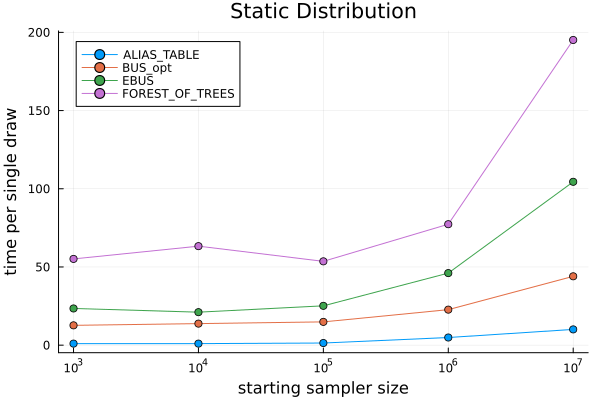
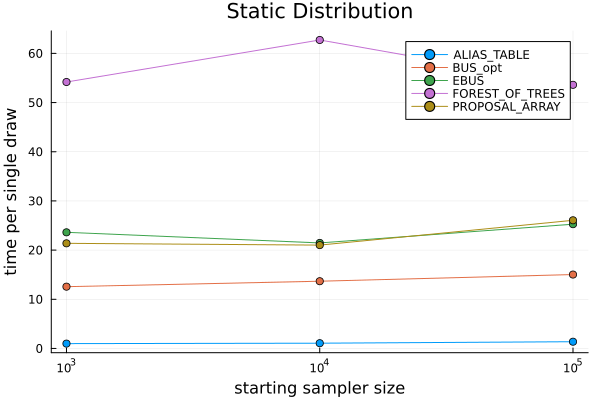
Add proposal array to figure

diff --git a/proposal_array/source/main.cpp b/proposal_array/source/main.cpp
@@ -4,7 +4,53 @@
 #include <vector>
 #include <chrono>
 #include <cmath>
+#include <fstream>
+#include <string>
 #include "DynamicProposalArrayStar.hpp"
+
+void append_column_in_place(const std::string& file_path, const std::vector<double>& vec) {
+    std::ifstream fin(file_path);
+    if (!fin.is_open()) {
+        throw std::runtime_error("Could not open input file: " + file_path);
+    }
+
+    std::vector<std::string> lines;
+    std::string line;
+
+    // Read and modify header
+    if (std::getline(fin, line)) {
+        lines.push_back(line + ",PROPOSAL_ARRAY");
+    } else {
+        throw std::runtime_error("Empty input file: " + file_path);
+    }
+
+    // Read each row and append corresponding vector value
+    size_t i = 0;
+    while (std::getline(fin, line)) {
+        if (i < vec.size()) {
+            lines.push_back(line + ',' + std::to_string(vec[i]));
+        } else {
+            lines.push_back(line + ",");
+        }
+        ++i;
+    }
+
+    fin.close();
+
+    if (i < vec.size()) {
+        std::cerr << "Warning: vector has " << (vec.size() - i) << " extra elements\n";
+    }
+
+    // Now write everything back to the same file
+    std::ofstream fout(file_path);
+    if (!fout.is_open()) {
+        throw std::runtime_error("Could not open output file: " + file_path);
+    }
+
+    for (const auto& l : lines) {
+        fout << l << '\n';
+    }
+}
 
 // Setup function for the sampler
 sampling::DynamicProposalArrayStar setup_sampler(size_t size, std::mt19937& rng) {
@@ -60,7 +106,7 @@ std::vector<size_t> benchmark_sample_dynamic_variable(sampling::DynamicProposalA
         std::uniform_int_distribution<size_t> index_dist(0, i);
         size_t index = n+index_dist(rng);
         double new_weight = std::abs(weight_dist(rng));
-        if (index > sampler.size_indices()){
+        if (index >= sampler.size_indices()){
             for (size_t j = sampler.size_indices(); j < index+1; ++j) {
                 sampler.push_zero();
             }
@@ -75,7 +121,11 @@ int main() {
     std::mt19937 rng(42);
     const int repetitions = 5;
 
-    for (int exp = 3; exp <= 7; ++exp) {
+    std::vector<double> static_times;
+    std::vector<double> dynamic_fixed_times;
+    std::vector<double> dynamic_variable_times;
+
+    for (int exp = 3; exp <= 5; ++exp) {
         size_t size = static_cast<size_t>(std::pow(10, exp));
 
         double total_static_ns = 0;
@@ -84,29 +134,29 @@ int main() {
 
         for (int rep = 1; rep <= repetitions; ++rep) {
 
-            auto sampler = setup_sampler(size, rng);
+            auto sampler1 = setup_sampler(size, rng);
 
             // Benchmark static sampling
             auto fixed_start = std::chrono::high_resolution_clock::now();
-            auto fixed_samples = benchmark_sample_static(sampler, rng, size);
+            auto fixed_samples = benchmark_sample_static(sampler1, rng, size);
             auto fixed_end = std::chrono::high_resolution_clock::now();
             std::chrono::duration<double, std::nano> fixed_time = fixed_end - fixed_start;
             total_static_ns += fixed_time.count();
 
-            auto sampler = setup_sampler(size, rng);
+            auto sampler2 = setup_sampler(size, rng);
 
             // Benchmark dynamic fixed sampling
             auto variable_start = std::chrono::high_resolution_clock::now();
-            auto variable_samples = benchmark_sample_dynamic_fixed(sampler, rng, size);
+            auto variable_samples = benchmark_sample_dynamic_fixed(sampler2, rng, size);
             auto variable_end = std::chrono::high_resolution_clock::now();
             std::chrono::duration<double, std::nano> variable_time = variable_end - variable_start;
             total_dynamic_fixed_ns += variable_time.count();
 
-            auto sampler = setup_sampler(size, rng);
+            auto sampler3 = setup_sampler(size, rng);
             
             // Benchmark dynamic variable sampling
             auto variable2_start = std::chrono::high_resolution_clock::now();
-            auto variable2_samples = benchmark_sample_dynamic_variable(sampler, rng, size);
+            auto variable2_samples = benchmark_sample_dynamic_variable(sampler3, rng, size);
             auto variable2_end = std::chrono::high_resolution_clock::now();
             std::chrono::duration<double, std::nano> variable2_time = variable2_end - variable2_start;
             total_dynamic_variable_ns += variable2_time.count();
@@ -117,12 +167,29 @@ int main() {
         double avg_dynamic_fixed_per_sample = (total_dynamic_fixed_ns / repetitions) / size;
         double avg_dynamic_variable_per_sample = (total_dynamic_variable_ns / repetitions) / (9*size);
 
+        static_times.push_back(avg_static_per_sample);
+        dynamic_fixed_times.push_back(avg_dynamic_fixed_per_sample);
+        dynamic_variable_times.push_back(avg_dynamic_variable_per_sample);
+
         std::cout << "Size: " << size
                   << ", Avg Static sampling: " << avg_static_per_sample << " ns/sample"
                   << ", Avg Dynamic Fixed sampling: " << avg_dynamic_fixed_per_sample << " ns/sample"
                   << ", Avg Dynamic Variable sampling: " << avg_dynamic_variable_per_sample << " ns/sample"
                   << std::endl;
     }
+
+    const std::string data_dir = "../../data/";
+
+    try {
+        append_column_in_place(data_dir + "static.csv", static_times);
+        append_column_in_place(data_dir + "dynamic_fixed.csv", dynamic_fixed_times);
+        append_column_in_place(data_dir + "dynamic_variable.csv", dynamic_variable_times);
+        std::cout << "All three files written successfully.\n";
+    } catch (const std::exception& e) {
+        std::cerr << "Error: " << e.what() << "\n";
+        return 1;
+    }
+
 
     return 0;
 }

diff --git a/forest_of_trees/src/main.rs b/forest_of_trees/src/main.rs
@@ -105,7 +105,7 @@ fn append_column_to_csv(
 
 fn main() -> Result<(), Box<dyn std::error::Error>> {
     let mut rng = Pcg64::seed_from_u64(42);
-    let sample_sizes: Vec<usize> = (3..=7).map(|i| 10usize.pow(i)).collect();
+    let sample_sizes: Vec<usize> = (3..=5).map(|i| 10usize.pow(i)).collect();
     let repetitions = 5;
 
     // --- 1) static (fixed) sampling ---
